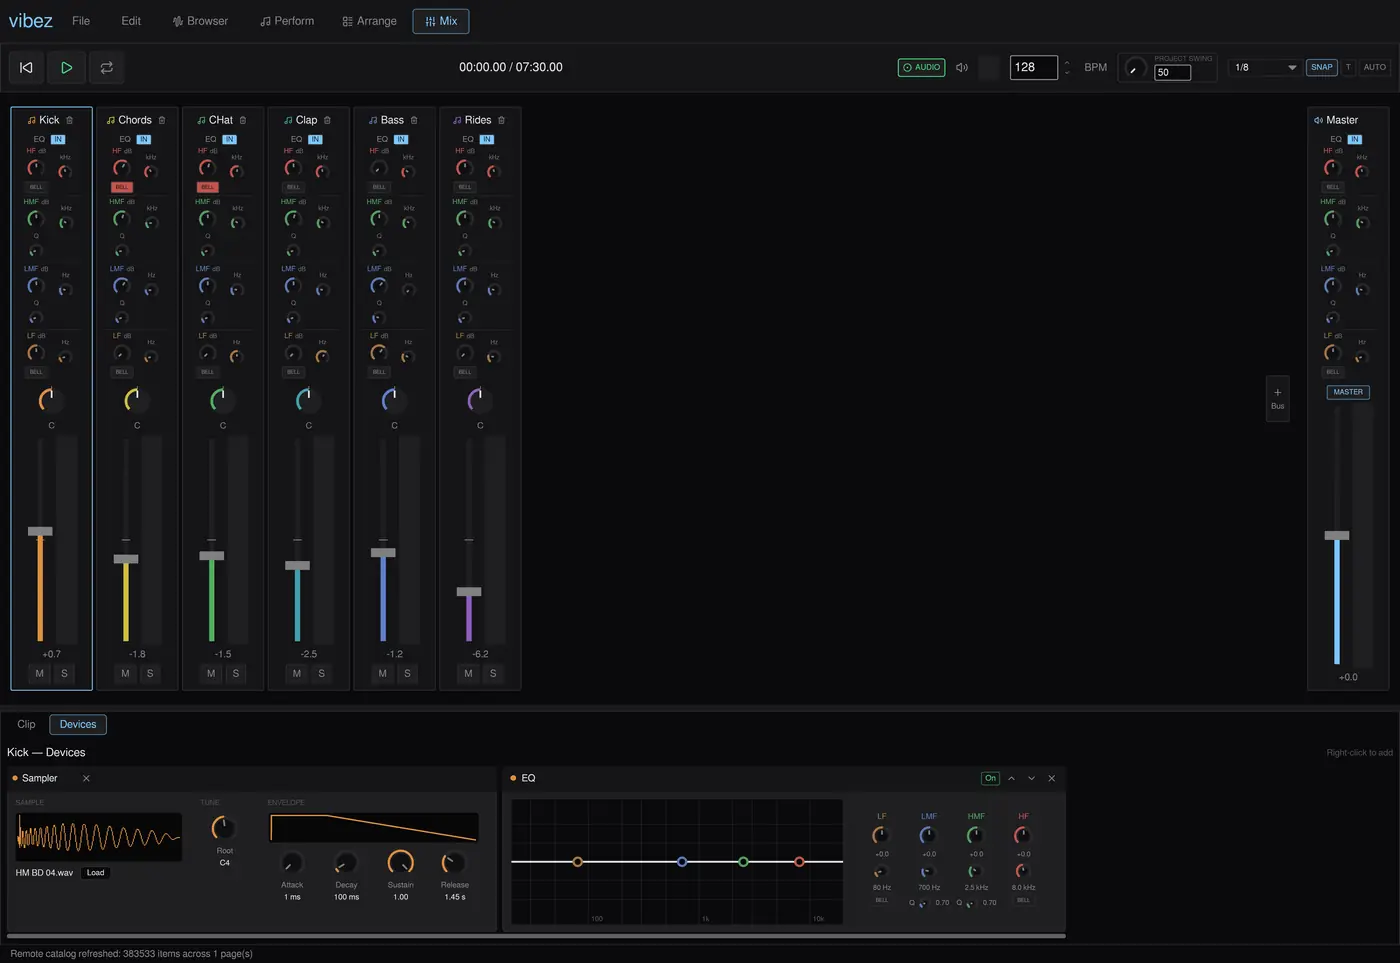
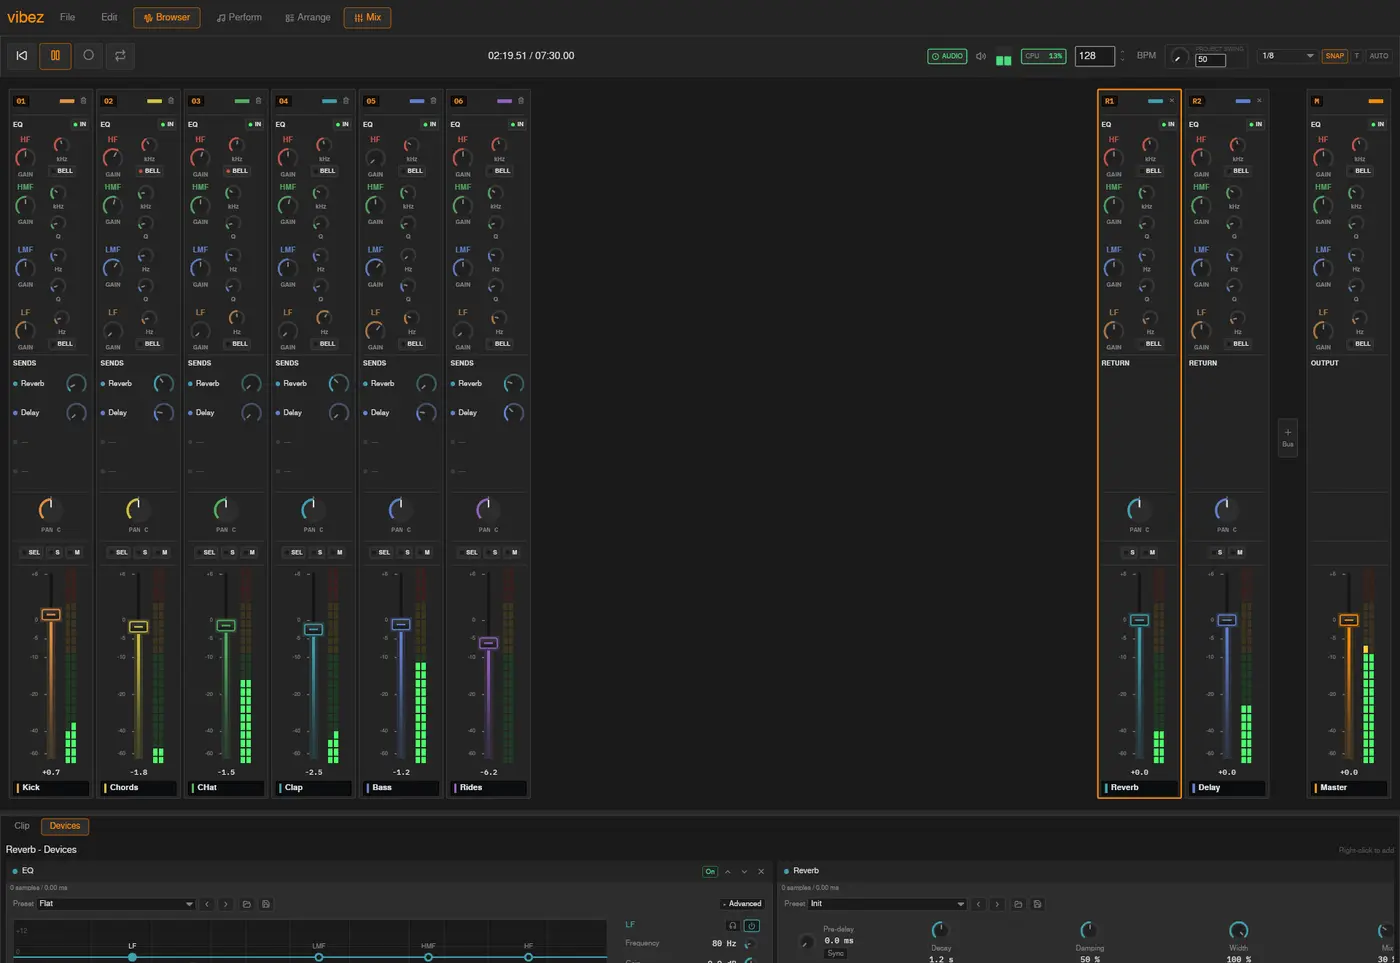
docs: new mixer and clip launcher pictures, and copy for what shipped

Changed region(s): [[0.0, 0.0, 1.0, 1.0], [0.645, 0.8411, 0.7064, 0.8723]]

diff --git a/site/index.html b/site/index.html
@@ -498,10 +498,16 @@ footer .for-mum { flex-basis: 100%; }
         <li><b>Track Mutes <kbd>F2</kbd></b><span>Bring parts in and out from the same pads. You can turn one loop into a full arrangement just by performing the mutes.</span></li>
         <li><b>Instrument <kbd>F3</kbd></b><span>The selected instrument is mapped to sixteen pads, with Full Level, 16 Levels and Note Repeat.</span></li>
         <li><b>Feel</b><span>Swing is modelled on the MPC2000XL and can live at project, track or clip level.</span></li>
+        <li><b>Clip launcher</b><span>Or give every track its own column of clips. Launch, copy, paste and drag them, and Play picks up whatever was playing when you stopped.</span></li>
+        <li><b>Record <kbd>F4</kbd></b><span>Record a take with a count-in, into the selected Section or the selected clip cell.</span></li>
       </ul>
       <figure class="shot">
         <img src="images/band-perform.webp" alt="The Perform workspace: a 16 pad grid of named Sections beside the Section editor" width="1100">
         <figcaption>Perform &middot; Sections mode &middot; Bank 1 &middot; the Section editor on the right</figcaption>
+      </figure>
+      <figure class="shot">
+        <img src="images/band-clips.webp" alt="The clip launcher: a column of clips per track, several playing, with a warped audio clip open in the editor" width="1100" loading="lazy">
+        <figcaption>Perform &middot; clip launcher &middot; clips playing across three rows &middot; a warped audio clip in the editor</figcaption>
       </figure>
     </section>
   </div>
@@ -547,13 +553,14 @@ footer .for-mum { flex-basis: 100%; }
         <span class="role">Mix</span>
       </div>
       <p class="lede">
-        The Mix view is laid out like an analogue desk. Every channel has a four-band EQ, and there
-        are buses, returns and sends. The master behaves like a normal channel too. The device rack
-        follows the selected channel and hosts vibez instruments, VST3 plugins and CLAP plugins.
+        The Mix view is laid out like an analogue desk. Every channel has a four-band EQ, named
+        sends to its returns, and a fader with a proper dB scale beside an LED meter. Select a few
+        channels and move them together. The master behaves like a normal channel too. The device
+        rack follows the selected channel and hosts vibez instruments, VST3 plugins and CLAP plugins.
       </p>
       <figure class="shot">
         <img src="images/band-mix.webp" alt="The Mix workspace: channel strips with EQ curves, the master channel, and the device rack" width="1100">
-        <figcaption>Mix &middot; channel EQ &middot; master channel &middot; device rack</figcaption>
+        <figcaption>Mix &middot; channel EQ and sends &middot; Reverb and Delay returns &middot; the Reverb return's rack</figcaption>
       </figure>
     </section>
 
@@ -870,9 +877,9 @@ cd vibez &amp;&amp; cargo run --release</code>
     { k: 'X', n: 'Warping',         m: 'Browser and Arrange', s: 'images/warping.webp', c: 'Browser \u00b7 warp audition \u00b7 source 132.7 detected against project 128',
       d: 'Preview a loop against the playing track. Warp detects its tempo, fits it to the project BPM and keeps it there when the tempo changes.' },
     { k: 'C', n: 'Channel EQ',      m: 'Mix', s: 'images/channeleq.webp', c: 'Mix \u00b7 every channel with its own four band EQ',
-      d: 'Every channel has a four band EQ. Buses, returns, sends and the master use the same channel strip.' },
-    { k: 'V', n: 'Device rack',     m: 'Mix', s: 'images/devicerack.webp', c: 'Mix \u00b7 the rack following the selected channel',
-      d: 'The rack holds the built-in synth, sampler and drum rack. It also loads VST3 and CLAP plugins with their native interfaces. Plugin scanning runs in a separate process, so a broken plugin does not crash vibez.' }
+      d: 'Every channel has a four band EQ and named sends to the returns. Returns and the master use the same channel strip.' },
+    { k: 'V', n: 'Device rack',     m: 'Mix', s: 'images/devicerack.webp', c: 'Mix \u00b7 the Sampler in the rack of the selected channel',
+      d: 'The rack holds vibez\u2019s own synths, sampler, drum rack and effects. It also loads VST3 and CLAP plugins with their native interfaces. Plugin scanning runs in a separate process, so a broken plugin does not crash vibez.' }
   ];
   var HUES = ['var(--kick)', 'var(--chords)', 'var(--chat)', 'var(--clap)'];
   var RGBA = ['rgba(204,127,61,.16)', 'rgba(188,174,64,.16)', 'rgba(82,164,96,.16)', 'rgba(63,149,164,.16)'];

diff --git a/README.md b/README.md
@@ -26,6 +26,11 @@ same editor you use in Arrange, then launch it from a pad grid.
 - **Swing** modelled on the MPC2000XL, set per project, per track, or per clip
 - **Section Record** with count-in, overdub and replace, timed against the audio
   engine's sample clock rather than the UI frame rate
+- **Clips mode** gives every track its own column of clips instead: launch,
+  copy, paste and drag them, record a take into the selected cell with F4, and
+  Play picks up whatever was playing when you stopped
+
+![The clip launcher: a column of clips per track, several playing](docs/perform-clips.png)
 
 The pad grid works from the computer keyboard, so you do not need a MIDI
 controller to start. MIDI input can play notes into the selected instrument
@@ -69,17 +74,19 @@ Mix is a real console rather than a row of faders. Every channel has its own
 EQ, the master is an actual channel, and the device rack below follows the
 selected one.
 
-![Mix: channel strips with EQ, the master channel, and the device rack](docs/mix.png)
+![Mix: channel strips with EQ and sends, two returns, the master, and the device rack](docs/mix.png)
 
-- **Channel strips** with a four-band EQ, pan, fader, metering, mute and solo
+- **Channel strips** with a four-band EQ, named sends, pan, a fader with a dB
+  scale, LED metering, mute and solo
+- **Move channels together**: select a set with Ctrl-click, Shift-click or
+  Ctrl+A, and their faders, pans, sends, mutes and solos move as one
 - **Buses, returns and sends**, and a real master channel rather than a
   summing shortcut
-- **Built-in instruments**: subtractive synth, sampler, and a drum rack with
-  four banks of 16 pads. Coming in v0.5.0: a wavetable synth, an FM synth, a
-  Sampler on every drum pad, and 808 and 909 kits
-- **Built-in effects**: EQ, filter, delay, reverb, drive, bitcrush, compressor,
-  auto-pan, gate, phaser, and gain. Coming in v0.5.0: echo, saturator and a
-  true-peak limiter
+- **Built-in instruments**: subtractive, wavetable and FM synths, a sampler, and
+  a drum rack with four banks of 16 pads, a Sampler on every pad, and 808 and
+  909 kits
+- **Built-in effects**: EQ, filter, delay, echo, reverb, drive, saturator,
+  bitcrush, compressor, true-peak limiter, auto-pan, gate, phaser, and gain
 - **Plugin hosting**: VST3 and CLAP instruments and effects with native GUIs,
   sandboxed plugin scanning, and state persisted in your project
 
